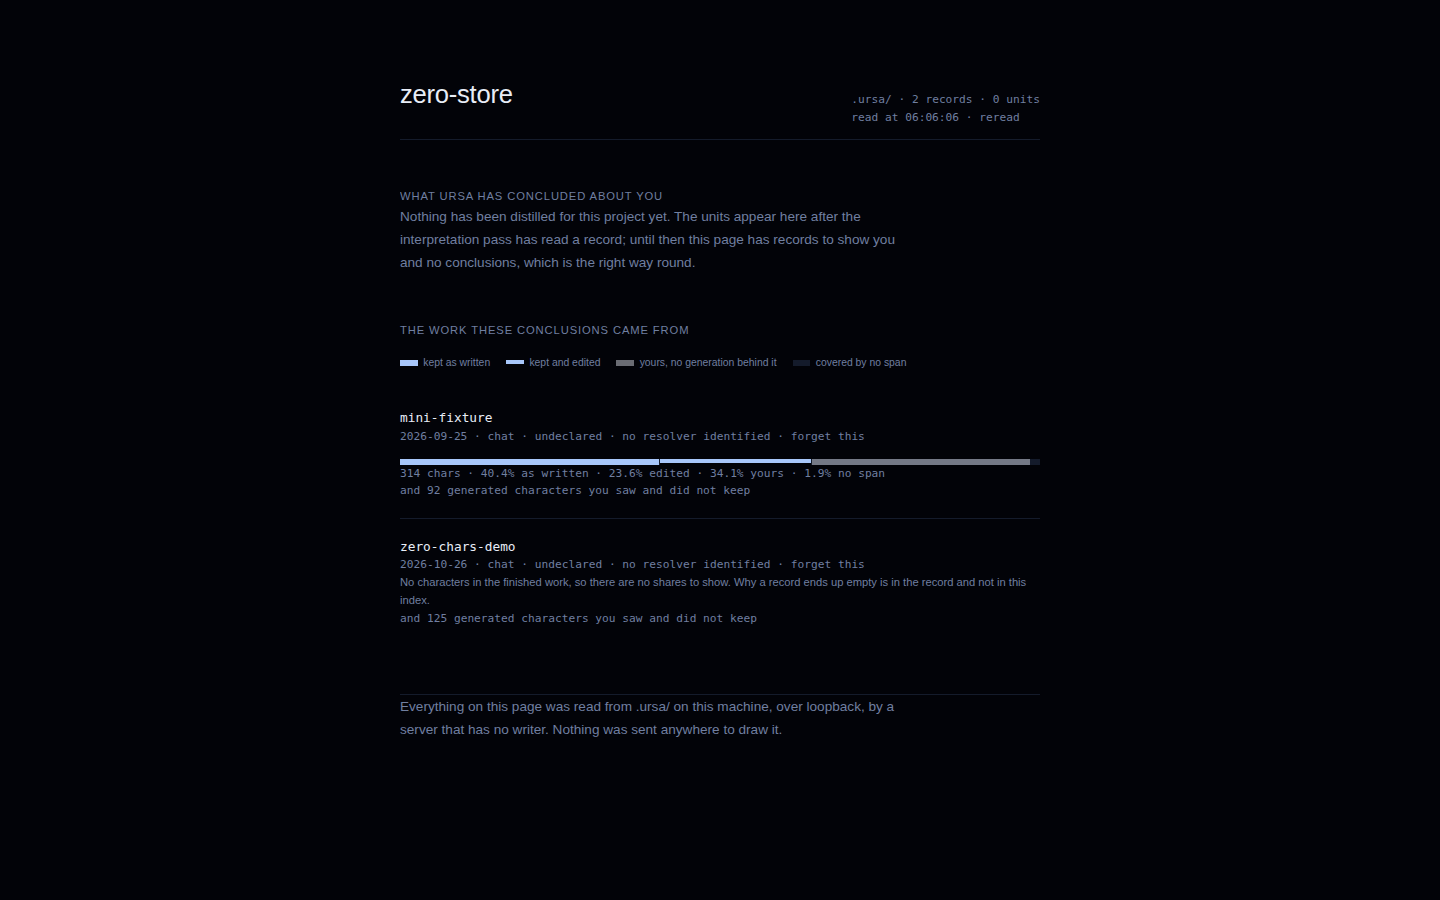
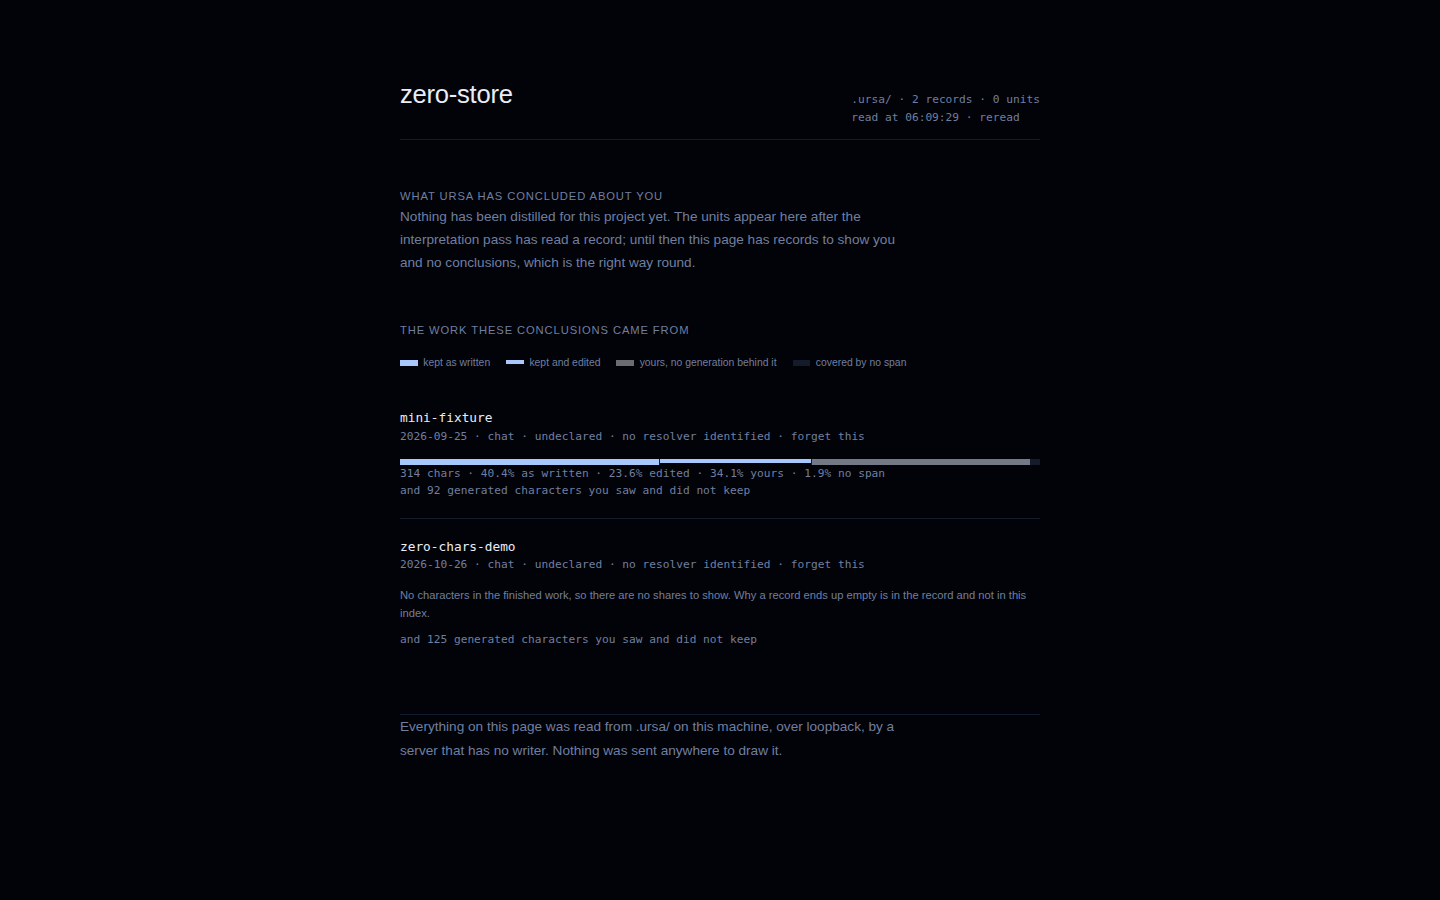
fe: the sync slot says which kind of nothing it has, and a state module for the synced panel

Changed region(s): [[0.2812, 0.6222, 0.7188, 0.7156], [0.2812, 0.7778, 0.625, 0.84]]

diff --git a/ursa-major/overlay/app/page.tsx b/ursa-major/overlay/app/page.tsx
@@ -153,7 +153,14 @@ export default function Overlay() {
         <span style={{ color: 'var(--accent)', fontWeight: 600 }}>{payload?.project ?? '…'}</span>
         <span className="mono" style={{ color: 'var(--dim)', fontSize: 10 }}>
           {payload?.sessionFile ? `${payload.sessionFile.slice(0, 8)}… · ` : ''}
-          {payload ? new Date(payload.updatedAt).toLocaleTimeString() : 'connecting'}
+          {/* This slot holds the time of the last good sync, so with no
+              payload it has no time and says which kind of nothing it
+              has. `connecting` after a connection that answered 500 is
+              the panel claiming an in-flight state it is not in, which
+              is the same defect as §7.1 one layer down. Neither branch
+              restates the error: that is one line below, once. */}
+          {payload ? new Date(payload.updatedAt).toLocaleTimeString()
+            : error ? 'not synced' : 'connecting'}
         </span>
       </header>
 

diff --git a/ursa-major/overlay/app/dashboard/dashboard.css b/ursa-major/overlay/app/dashboard/dashboard.css
@@ -283,8 +283,11 @@
    without it the sentence butts against the metadata line and reads as a
    fourth line of it. The bottom one is because the sentence ends in a full
    stop and the line under it opens with a lowercase "and", which under the
-   bar continues "1.9% no span" correctly and under a sentence does not. */
-.dash-nothing {
+   bar continues "1.9% no span" correctly and under a sentence does not.
+   Compound rather than a bare class because `.dash p { margin: 0 }` above
+   is (0,1,1) and a bare `.dash-nothing` is (0,1,0), so the first version
+   of this rule lost and the frame came back byte-identical. */
+.dash .dash-nothing {
   margin-top: 0.8rem;
   margin-bottom: 0.5rem;
 }
